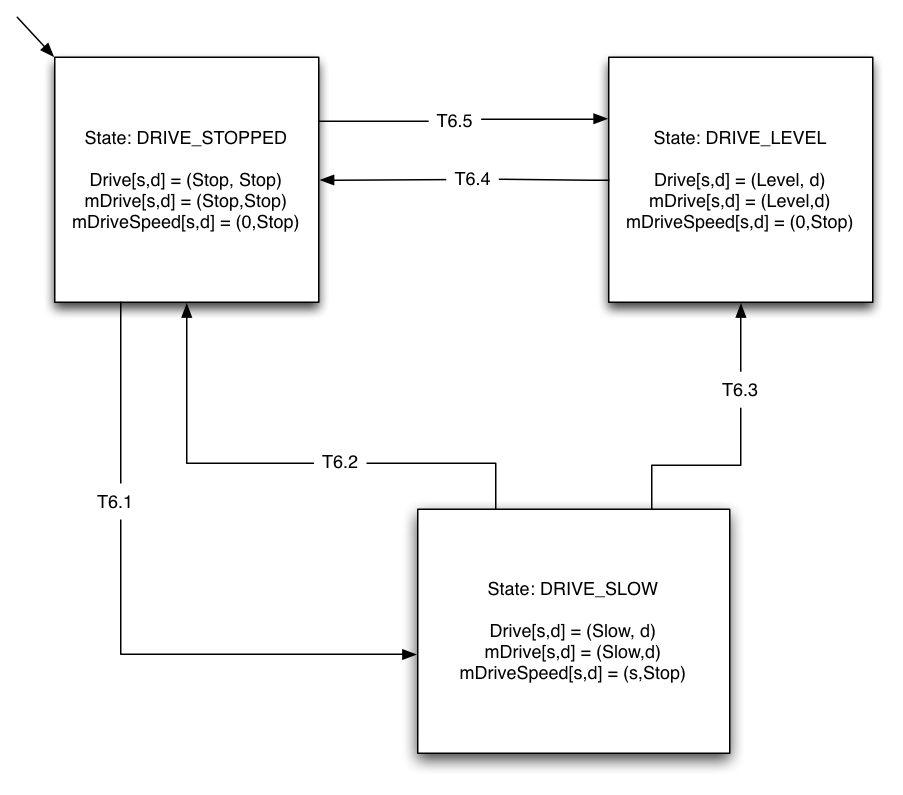
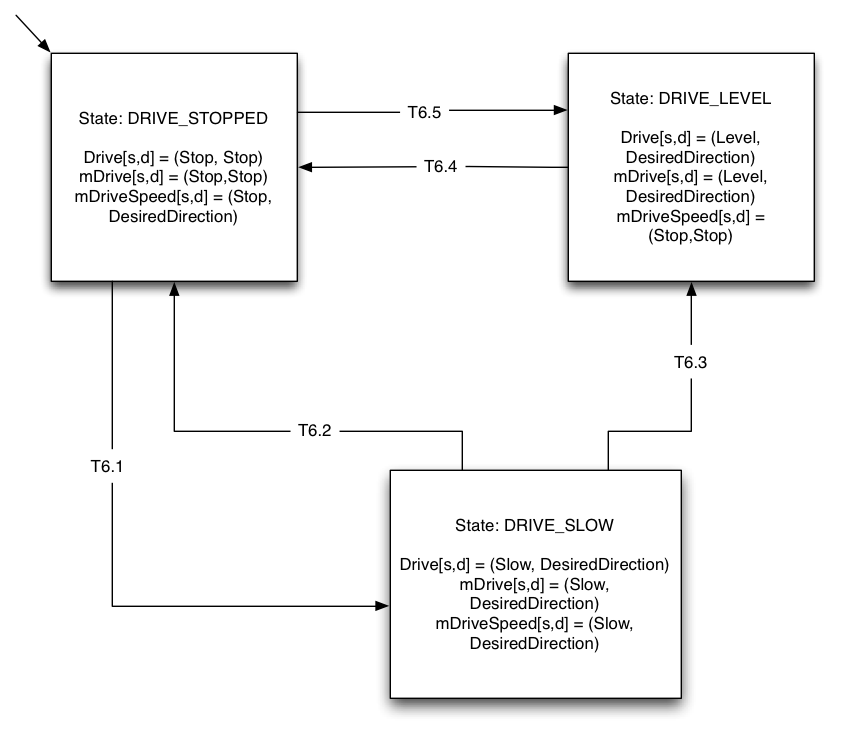
Fixes to DriveControl SC and DriveControl.java

diff --git a/portfolio/reqs/requirements2.html b/portfolio/reqs/requirements2.html
@@ -1770,9 +1770,10 @@
         <tr>
           <td valign="top">T6.5<br>
           </td>
-          <td valign="top">mLevel[d]==False for any d (car needs
-            re-leveling)<br>
-          </td>
+          <td valign="top">DesiredDirection==Stop &amp;&amp;
+            mDoorClosed==True &amp;&amp; mDesiredFloor.f==CurrentFloor
+            &amp;&amp; <br>
+            mLevel[d]==False (for any d) </td>
         </tr>
       </tbody>
     </table>

diff --git a/simulator/code/simulator/elevatorcontrol/DriveControl.java b/simulator/code/simulator/elevatorcontrol/DriveControl.java
@@ -206,19 +206,20 @@ public class DriveControl extends Controller {
             	/*            	
             	 * Drive[s,d]=(Stop,Stop);
             	 * mDrive[s,d]=(Stop,Stop);
-            	 * mDriveSpeed[s,d]=(Stop,Stop);	**also fix the state chart, it says (0,Stop)
+            	 * mDriveSpeed[s,d]=(Stop,DesiredDirection);
             	 */
+							desiredDir=getDesiredDir();
+
             	localDrive.set(Speed.STOP, Direction.STOP);
             	mDrive.set(Speed.STOP, Direction.STOP);
-            	mDriveSpeed.set(Speed.STOP, Direction.STOP);
-            	
-                desiredDir=getDesiredDir();
+            	mDriveSpeed.set(Speed.STOP, desiredDir);
             	
             	//transitions
             	/*
             	 * T6.1 DesiredDirection~=Stop && mDoorClosed[*,*]==True && 
             	 * 		mCarWeight<MaxCarCapacity && mEmergencyBrake[b]==Off
-            	 * T6.5 mLevel[d]==False for any d (car needs re-leveling)
+            	 * T6.5 DesiredDirection==Stop && mDoorClosed==True && 
+            	 * 		mDesiredFloor.f==CurrentFloor && mLevel[d]==False (for any d)
             	 */
             	if (!desiredDir.equals(Direction.STOP) && 
             			networkDoorClosedArray.getBothClosed() &&
@@ -226,7 +227,11 @@ public class DriveControl extends Controller {
             			!mEmergencyBrake.getValue()){            		
             		newState = State.STATE_DRIVE_SLOW;
             	}
-            	else if (!mLevelUp.getValue() || !mLevelDown.getValue()){           		
+            	else if (desiredDir.equals(Direction.STOP) &&
+            			networkDoorClosedArray.getBothClosed() &&
+            			mDesiredFloor.getFloor()==networkAtFloorArray.getCurrentFloor() &&
+            			(!mLevelUp.getValue() || !mLevelDown.getValue())){
+     		
             		newState = State.STATE_DRIVE_LEVEL;
             	}
             	else { newState=state; }
@@ -236,16 +241,16 @@ public class DriveControl extends Controller {
             	
             	//state actions for DRIVE_LEVEL
             	/*            	
-            	 * Drive[s,d]=(Level,d);
-            	 * mDrive[s,d]=(Level,d);
-            	 * mDriveSpeed[s,d]=(0,Stop);	**also fix the state chart, it says (0,Stop)
+            	 * Drive[s,d]=(Level,DesiredDirection);
+            	 * mDrive[s,d]=(Level,DesiredDirection);
+            	 * mDriveSpeed[s,d]=(Stop,Stop);
             	 */
+							desiredDir=getDesiredDir();
+
             	localDrive.set(Speed.LEVEL, desiredDir);
             	mDrive.set(Speed.LEVEL, desiredDir);
             	mDriveSpeed.set(Speed.STOP, Direction.STOP);
-            	
-                desiredDir=getDesiredDir();
-            	
+            	            	
             	//transitions
             	/*
             	 * T6.4 (mLevel[*]==True && mDesiredFloor.f==CurrentFloor) || mEmergencyBrake[b]==On
@@ -266,12 +271,13 @@ public class DriveControl extends Controller {
             	 * mDrive[s,d]=(Slow,d);
             	 * mDriveSpeed[s,d]=(s,Stop);
             	 */
+
+							desiredDir=getDesiredDir();
+
             	localDrive.set(Speed.SLOW, desiredDir);
             	mDrive.set(Speed.SLOW, desiredDir);
-            	mDriveSpeed.set(localDrive.speed(), Direction.STOP);
-            	
-                desiredDir=getDesiredDir();
-            	
+            	mDriveSpeed.set(Speed.SLOW, desiredDir);
+            	            	
             	//transitions
             	/*
             	 * T6.2 mEmergencyBrake[b]==On
